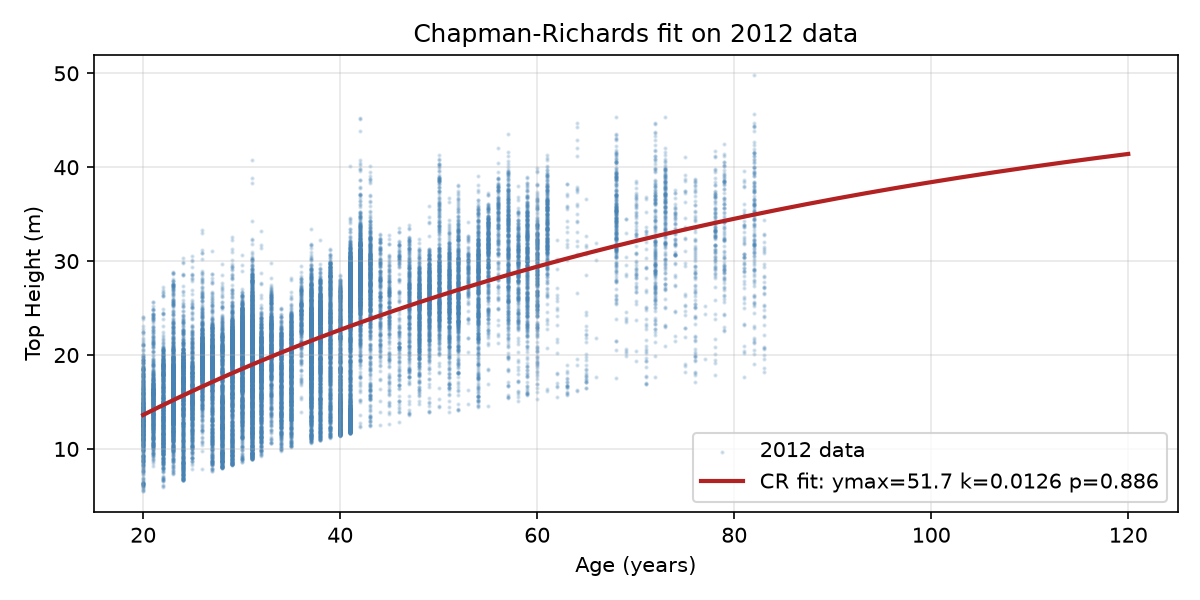
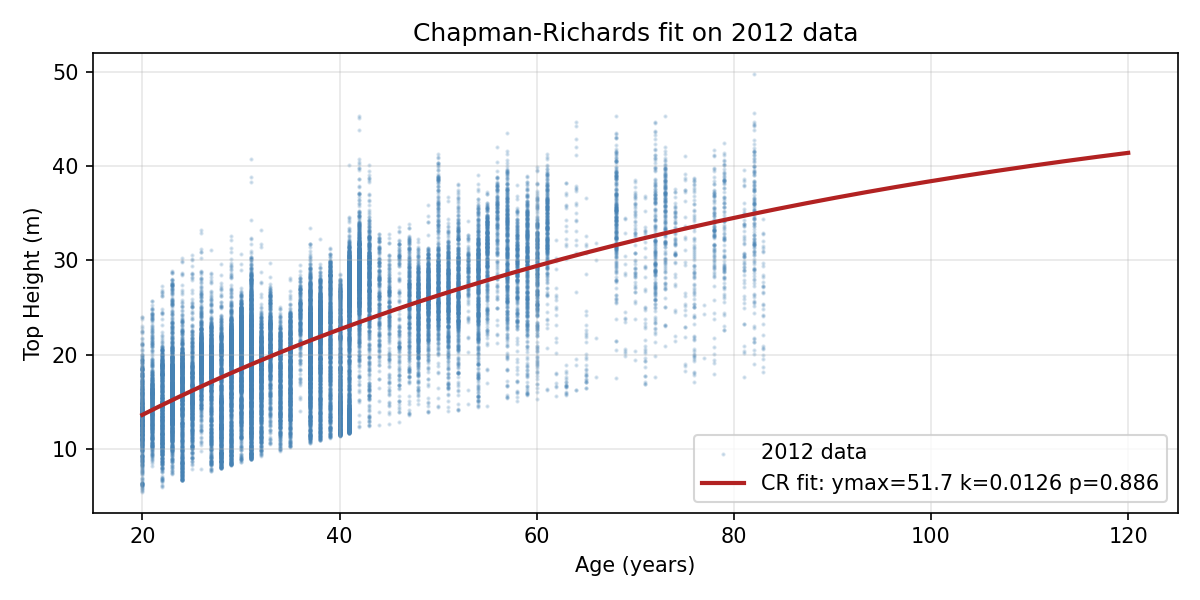
fix: lazy-import torch in data_utils, print every 10 epochs with flush

diff --git a/common/data_utils.py b/common/data_utils.py
@@ -14,7 +14,6 @@ The overall idea:
 import os
 import numpy as np
 import pandas as pd
-import torch
 from sklearn.preprocessing import StandardScaler
 from sklearn.model_selection import train_test_split, KFold
 
@@ -170,6 +169,7 @@ def to_tensors(idx_arr, X_other, X_age, y, scaler_Xo, scaler_age, scaler_y):
 
     Used to build the train and validation tensors from the 2012 data.
     """
+    import torch
     Xo = torch.tensor(scaler_Xo.transform(X_other[idx_arr]), dtype=torch.float32)
     Xa = torch.tensor(scaler_age.transform(X_age[idx_arr]), dtype=torch.float32)
     y_scaled = scaler_y.transform(y[idx_arr].reshape(-1, 1)).ravel()